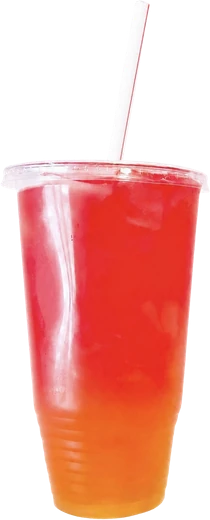
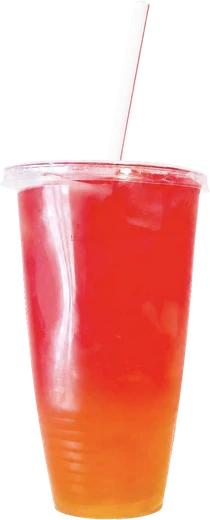
Smooth the Rainbow and Sunset cup outlines
The cups step inward where the ribbed base starts, and once matted and stood upright
that step read as a dent on the side of the Rainbow cup. Rebuild the outline below the
lid: sides fitted as smooth curves to the real edge and blended in so the join under the
lid has no step, and a rounded base tangent to them. Sides now move at most 1 px per
row. Everything inside the cup is untouched.

diff --git a/site/index.html b/site/index.html
@@ -17,7 +17,7 @@
 <link rel="preconnect" href="https://fonts.gstatic.com" crossorigin>
 <link href="https://fonts.googleapis.com/css2?family=Anton&family=Bebas+Neue&family=Archivo+Black&family=Caveat:wght@600;700&family=Manrope:wght@400;500;600;700&family=Space+Mono:wght@400;700&display=swap" rel="stylesheet">
 <link rel="preload" as="image" href="img/01-cup.webp">
-<link rel="stylesheet" href="css/site.css?v=202609161032">
+<link rel="stylesheet" href="css/site.css?v=202609161053">
 </head>
 <body>
 
@@ -291,10 +291,10 @@
   </div>
 </footer>
 
-<script src="js/vendor/gsap.min.js?v=202609161032"></script>
-<script src="js/vendor/ScrollTrigger.min.js?v=202609161032"></script>
-<script src="js/vendor/lenis.min.js?v=202609161032"></script>
-<script src="js/manifest.js?v=202609161032"></script>
-<script src="js/loadout.js?v=202609161032"></script>
+<script src="js/vendor/gsap.min.js?v=202609161053"></script>
+<script src="js/vendor/ScrollTrigger.min.js?v=202609161053"></script>
+<script src="js/vendor/lenis.min.js?v=202609161053"></script>
+<script src="js/manifest.js?v=202609161053"></script>
+<script src="js/loadout.js?v=202609161053"></script>
 </body>
 </html>

diff --git a/smoothside.py b/smoothside.py
@@ -1,0 +1,82 @@
+"""Rebuild a cup cutout's outline below the lid: straight-tapered sides and an elliptical base.
+
+The 32 oz cups step inward where the ribbed base begins; after matting and standing the cup up
+that step read as a dent ("the weird decline"). v1 moved only the side edge and left a kink at
+the base and a grey hairline of the old soft edge. v2 replaces the whole outline from under the
+lid to the bottom with one shape: each side a smooth quadratic fitted to the real edge, the base
+an ellipse measured from the real rounding. Pixels newly inside are filled from real pixels a
+little inside the same row; everything that was already inside the cup is untouched.
+
+    python smoothside.py cutouts/f_rainbow.bak.png cutouts/f_rainbow.png
+"""
+import sys
+import numpy as np
+from PIL import Image, ImageFilter
+
+src, dst = sys.argv[1], sys.argv[2]
+im = Image.open(src).convert('RGBA'); a = np.array(im).astype(np.float32)
+al = a[..., 3]; H, W = al.shape
+solid = al > 128
+rows = [y for y in range(H) if solid[y].sum() > W * 0.25]
+y0 = rows[0]
+y_last = max(y for y in range(H) if solid[y].any())   # the true bottom, not the last wide row
+span = y_last - y0
+y_top = y0 + int(span * 0.20)            # below the lid flare
+y_bot = y_last - int(span * 0.08)        # above the rounded base
+edge = {y: (np.where(solid[y])[0].min(), np.where(solid[y])[0].max()) for y in range(y_top, y_last + 1) if solid[y].any()}
+fy = np.array([y for y in range(y_top, y_bot + 1) if y in edge], float)
+
+
+def robust_quad(y, x):
+    k = np.ones_like(x, bool)
+    for _ in range(3):
+        c = np.polyfit(y[k], x[k], 2); r = np.abs(x - np.polyval(c, y))
+        k = r <= max(np.percentile(r, 80), 1.0)
+    return np.polyfit(y[k], x[k], 2)
+
+
+cL = robust_quad(fy, np.array([edge[int(y)][0] for y in fy], float))
+cR = robust_quad(fy, np.array([edge[int(y)][1] for y in fy], float))
+Lf = lambda y: float(np.polyval(cL, y)); Rf = lambda y: float(np.polyval(cR, y))
+
+# measure the base rounding: from the bottom up, the first row whose real width is >= 96% of the fitted width
+y_round = y_last
+for y in range(y_last, y_bot - 40, -1):
+    if y in edge and (edge[y][1] - edge[y][0]) >= 0.96 * (Rf(y) - Lf(y)):
+        y_round = y; break
+b = int(np.clip(y_last - y_round, 12, 90))
+yc = y_last - b
+# the ellipse's widest row IS the side at yc, so the side runs into the base with no corner
+cx = (Lf(yc) + Rf(yc)) / 2; ax = (Rf(yc) - Lf(yc)) / 2
+
+out = a.copy()
+xs = np.arange(W)
+RAMP = 90   # rows over which the fitted outline takes over from the real one, so the join has no step
+for y in range(y_top, y_last + 1):
+    l, r = Lf(y), Rf(y)
+    if y < y_top + RAMP and y in edge:
+        w = (y - y_top) / RAMP
+        l = edge[y][0] * (1 - w) + l * w
+        r = edge[y][1] * (1 - w) + r * w
+    if y > yc:                                            # inside the base ellipse
+        t = (y - yc) / b
+        hw = ax * np.sqrt(max(0.0, 1 - t * t)); l, r = cx - hw, cx + hw
+    inside = (xs >= l) & (xs <= r)
+    # soft 1 px edge
+    cov = np.clip(np.minimum(xs - l + 0.5, r - xs + 0.5), 0, 1)
+    newly = inside & ~solid[y]
+    if newly.any():
+        yy = y
+        while yy > y_top and (yy not in edge or edge[yy][1] - edge[yy][0] < 40):
+            yy -= 1
+        el, er = edge.get(yy, (int(l), int(r)))
+        refL = a[yy, el + 6:el + 14, :3].mean(0); refR = a[yy, er - 13:er - 5, :3].mean(0)
+        mid = (el + er) / 2
+        for x in np.where(newly)[0]:
+            out[y, x, :3] = refL if x < mid else refR
+    out[y, :, 3] = np.where(solid[y] | newly, 255, 0) * cov
+out[y_last + 1:, :, 3] = 0                              # nothing of the old bottom survives below
+res = Image.fromarray(out.clip(0, 255).astype(np.uint8))
+res.putalpha(res.getchannel('A').filter(ImageFilter.GaussianBlur(0.6)))
+res = res.crop(res.getbbox()); res.save(dst)
+print('%s -> %s  sides fitted rows %d-%d, base ellipse b=%d px' % (src, dst, y_top, y_bot, b))

diff --git a/STATE.md b/STATE.md
@@ -49,6 +49,13 @@ Sunset repaints showed rectangular blocks, a seam and ragged edges. **Judge a cu
   matte is predicted on a 1024 px copy.
 - Rejected, do not retry: repainting from the clean half (`repair.py::dehand` — kept for reference, it is
   what shipped the blocky v2), skin-by-colour masks, u2net_human_seg as a hand mask.
+- **The dent (Circle, 2026-09-16).** The 32 oz cups step inward where the ribbed base starts; matted and stood
+  upright, that step read as a dent on one side of Rainbow. `smoothside.py SRC DST` rebuilds the outline under
+  the lid: each side a robust quadratic fitted to the real edge, blended in over 90 rows so the join under the
+  lid has no step, and a base ellipse tangent to the sides. Run it on `cutouts/f_{rainbow,sunset}.bak.png`
+  (the untouched cutouts). Measured after: sides move at most 1 px per row, worst kink 1.5 px. The same
+  check on the other cups flags only the lid rim, which is the real shape. A first version moved only the
+  sides and left a corner at the base and a grey hairline — check the base at 200% after any outline edit.
 - The shakes have no straw, so they draw at 64% (phone 40%) of the stage instead of 74% (47%) to read the
   same size as the teas.
 
